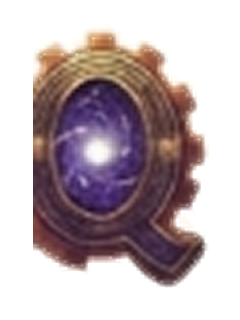
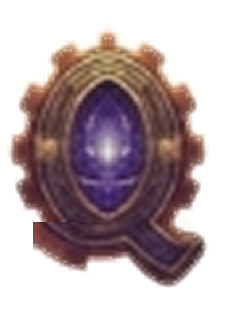
Restore missing left side of Road King Q symbol

Changed region(s): [[0.0292, 0.0938, 0.4667, 0.7188]]

diff --git a/v8-power-road-king.html b/v8-power-road-king.html
@@ -11,7 +11,7 @@
   <link rel="stylesheet" href="style.css?v=single-portrait-15">
   <link rel="stylesheet" href="themes/skin-tokens.css?v=skin-refactor-1">
   <link rel="stylesheet" href="shared-portrait.css?v=single-canvas-4">
-  <link rel="stylesheet" href="themes/v8-power-road-king.css?v=v8-road-king-20261006-25">
+  <link rel="stylesheet" href="themes/v8-power-road-king.css?v=v8-road-king-20261006-26">
 </head>
 <body>
   <div class="orientation-warning" role="status" aria-live="polite">Poné el teléfono en vertical para jugar.</div>
@@ -74,7 +74,7 @@
     </div>
   </div>
   <script src="phaser.min.js?v=4.2.1"></script>
-  <script src="themes/v8-power-road-king.js?v=v8-road-king-20261006-25"></script>
-  <script src="main.js?v=v8-road-king-20261006-25"></script>
+  <script src="themes/v8-power-road-king.js?v=v8-road-king-20261006-26"></script>
+  <script src="main.js?v=v8-road-king-20261006-26"></script>
 </body>
 </html>
